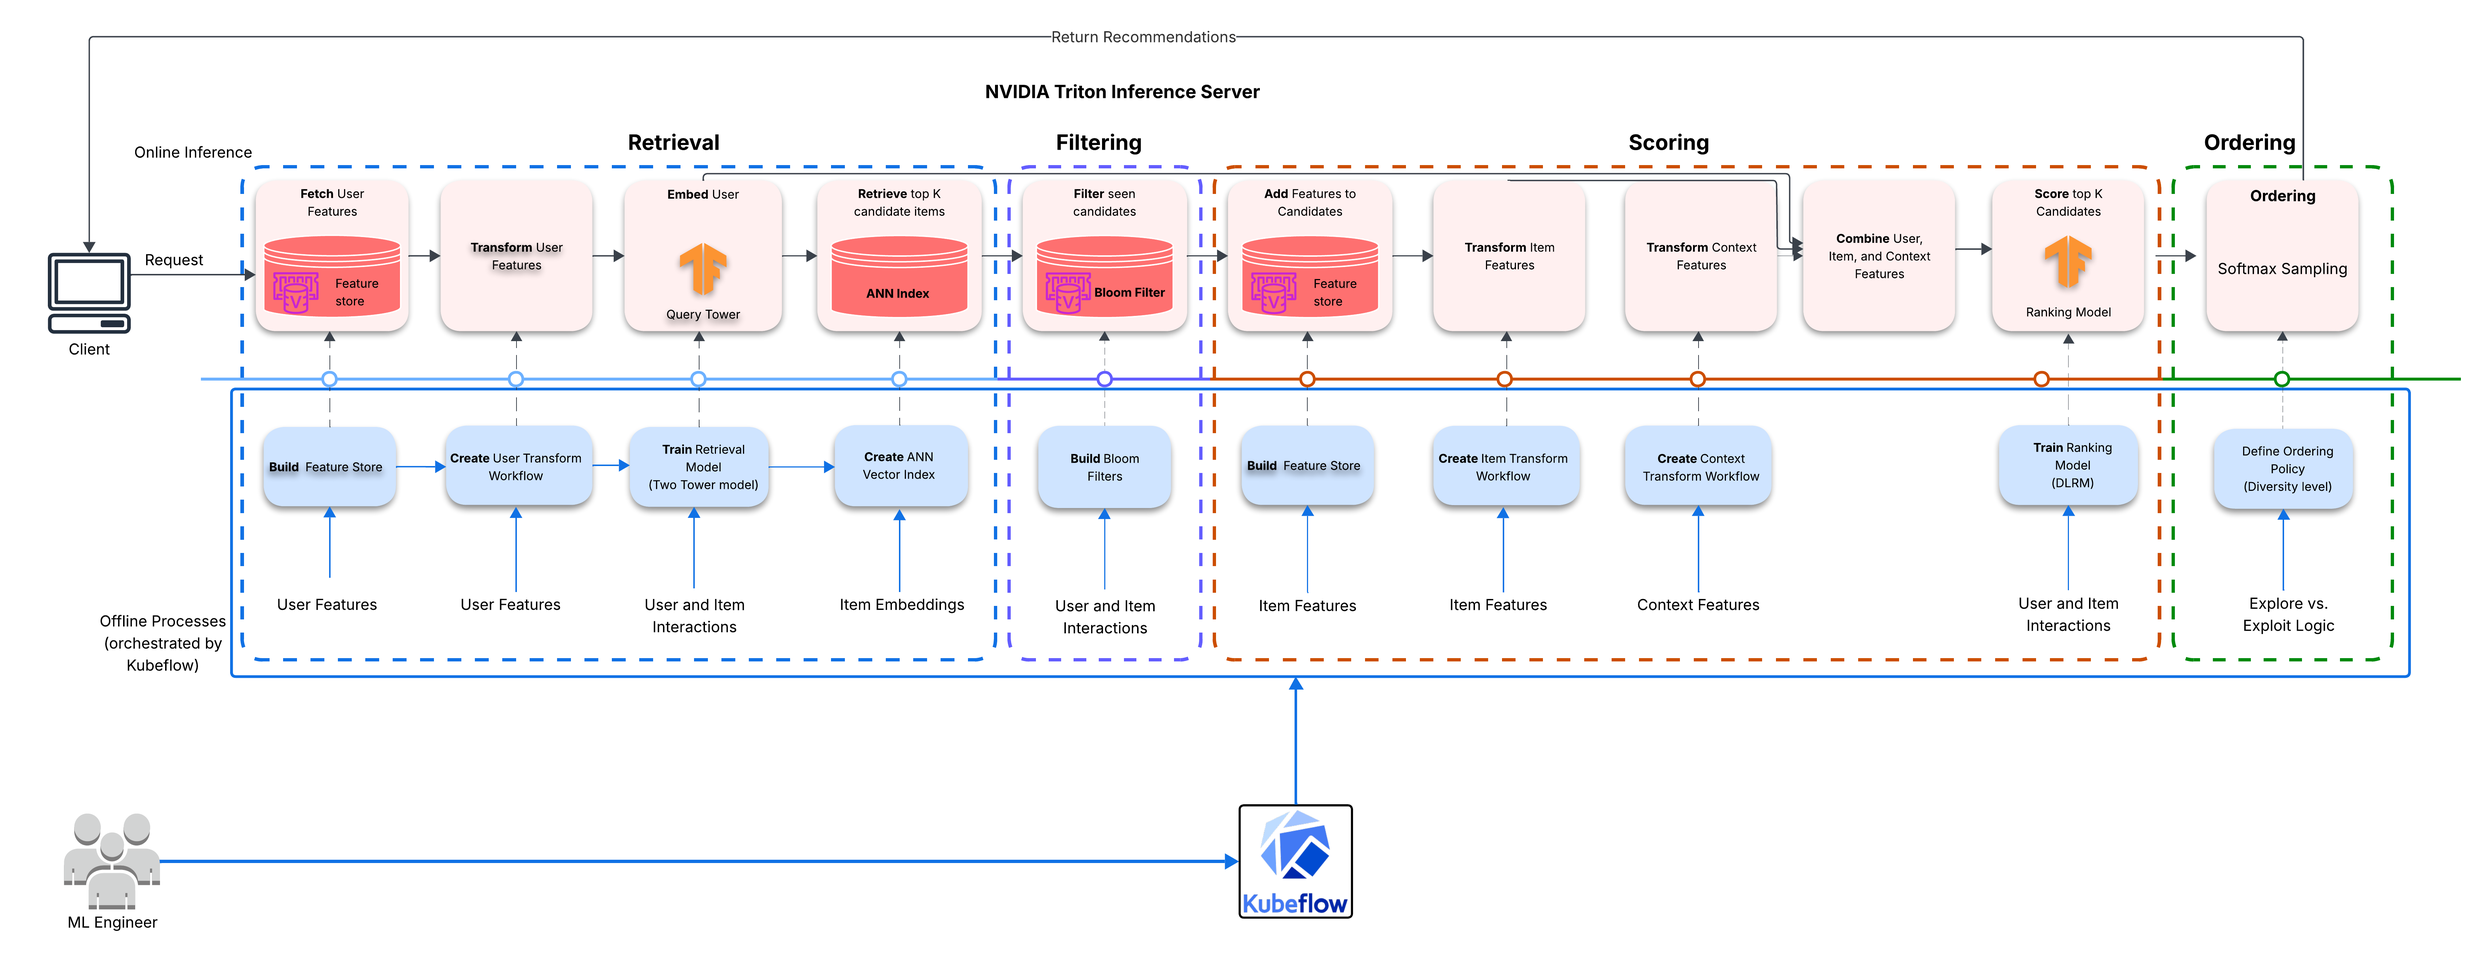
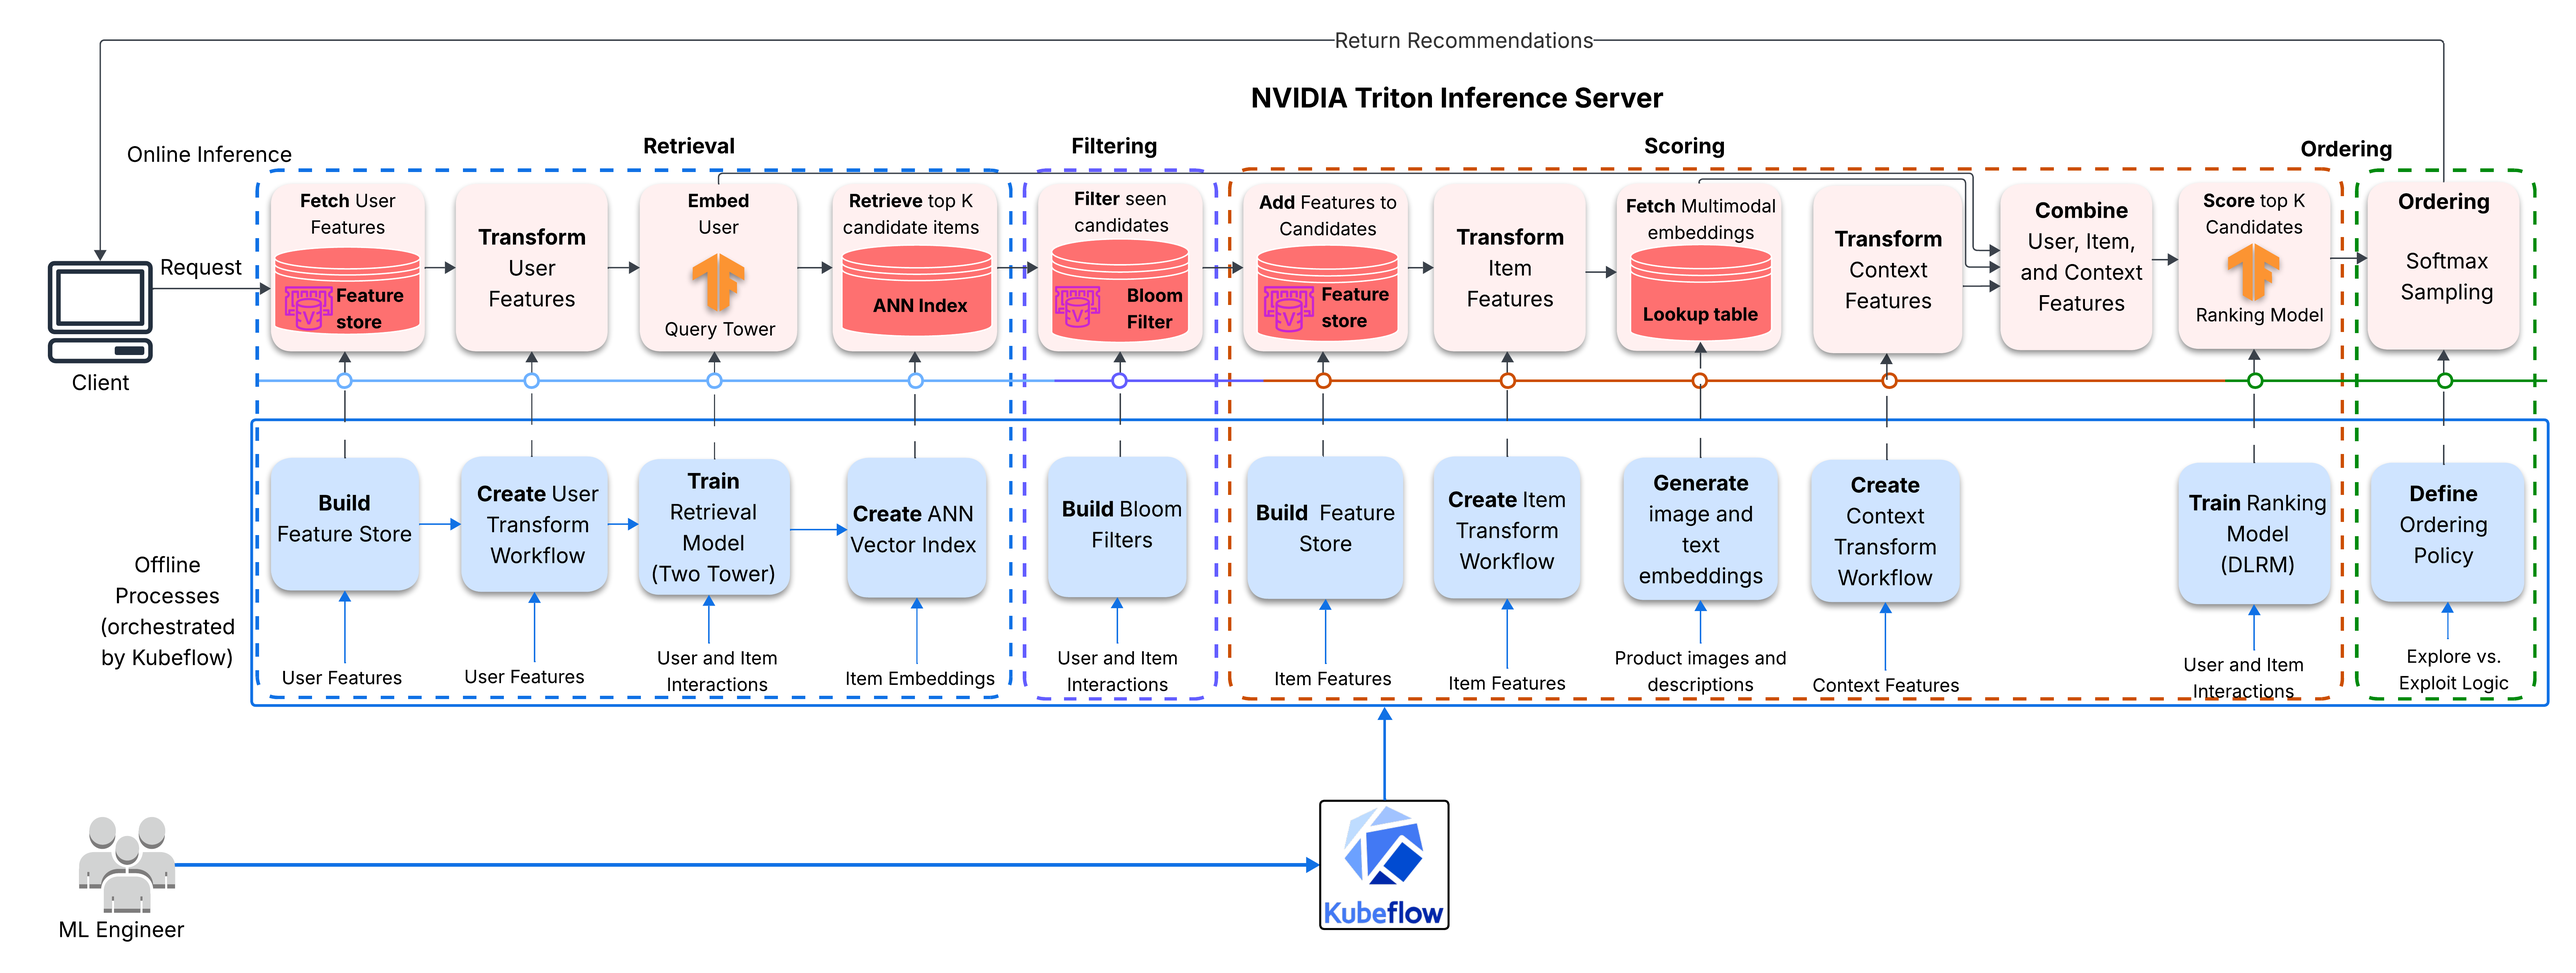
update docs

Changed region(s): [[0.0, 0.0934, 0.9956, 0.7472], [0.0311, 0.0311, 0.9334, 0.0623], [0.0311, 0.8094, 0.56, 0.9651]]

diff --git a/lambda/lambda_function.py b/lambda/lambda_function.py
@@ -33,7 +33,6 @@ REDIS_HOST    = os.environ.get("REDIS_HOST") or os.environ["REDIS_URL"]
 DYNAMO_TABLE  = os.environ["DYNAMO_TABLE"]
 SQS_QUEUE_URL = os.environ["SQS_QUEUE_URL"]
 
-# Reuse connections across warm invocations
 _triton_client = None
 _redis_client  = None
 _dynamo_table  = None
@@ -161,7 +160,6 @@ def lambda_handler(event, context):
     top_ids    = [int(i) for i in ids[:top_k]]
     top_scores = [float(s) for s in scores[:top_k]]
 
-    # Enrich with item metadata from DynamoDB
     dynamo = boto3.resource("dynamodb", region_name=os.environ.get("AWS_DEFAULT_REGION", "us-east-1"))
     dynamo_response = dynamo.batch_get_item(
         RequestItems={

diff --git a/demo_app.py b/demo_app.py
@@ -81,9 +81,10 @@ def mark_seen(user_id: int, item_ids: list):
 
 def flush_user(user_id: int):
     call_lambda({"user_id": user_id, "flush": True})
-    st.session_state.seen_items     = set()
-    st.session_state.snapshot_recs  = []
+    st.session_state.seen_items      = set()
+    st.session_state.snapshot_recs   = []
     st.session_state.pending_refresh = False
+    st.session_state.show_comparison = False
 
 
 def make_timestamp(hour) -> int | None:

diff --git a/readme.md b/readme.md
@@ -1,18 +1,86 @@
-### Multistage Recommender System Deployed on Amazon EKS
-![Model serving architecture](static/Model_serving.png)  
-This Multistage recommender system features:
-* Cold-start handling with feature masking and context-aware recommendations.
-* Multimodal embeddings – image and text
-* Periodic fine-tuning
-* Bloom filter for excluding already-seen items
-* In-memory caching to improve items feature lookup latency
-* Triton Server Autoscaling with Kubernetes HPA and Karpenter
+# Multistage Recommender System on Amazon EKS
 
-### The MLOps architecture
-![The MLOps Architecture](static/MLOps_arch_updated.png)
+A production-grade multistage recommender system deployed on Kubernetes, combining two-tower retrieval, DLRM ranking, multimodal item embeddings, and a real-time behavioral personalization loop.  
 
-### Deployment
-For deployment visit [Docs/documentation.md](Docs/documentation.md)
+**Model serving pipeline**
+![Model serving architecture](static/Model_serving.png)
 
-### Medium article:  
-You can read more about the project on Medium: [Deploying a Four-stage Recommender System on Kubernetes featuring Multimodal Embeddings, Cold Start handling, Bloom Filters, and Feature Caching.](https://mustaphaunubi.medium.com/building-a-production-multistage-recommender-system-on-kubernetes-featuring-multimodal-embeddings-5bcd6d7bbf56?postPublishedType=repub)
+---
+
+## Medium article
+
+[Deploying a Four-stage Recommender System on Kubernetes featuring Multimodal Embeddings, Cold Start handling, Bloom Filters, and Feature Caching](https://mustaphaunubi.medium.com/building-a-production-multistage-recommender-system-on-kubernetes-featuring-multimodal-embeddings-5bcd6d7bbf56?postPublishedType=repub)
+
+---
+## Video Demo
+Click to watch the Demo
+[![Video Demo](static/github_thumbnail.png)](https://youtu.be/nNC8G7wBpBA)
+## How it works
+
+A user request triggers a 14-stage ensemble served by NVIDIA Triton Inference Server on EKS:
+
+![Illustration of Client Request processing](static/TritonProcessingRequests.png)
+
+1. **Feast user lookup** — fetches user features (age, gender, `top_category`) from a Redis online store
+2. **NVT transforms** — applies the same NVTabular preprocessing workflow used during training to user, item, and context features
+3. **Two-Tower retrieval** — encodes the user query and searches a FAISS index of item embeddings to retrieve the top-N candidates
+4. **Bloom filter** — removes items the user has already seen using a per-user Redis Bloom filter
+5. **Feast item lookup** — resolves item features (category, price, gender) from a numpy in-memory cache loaded at startup (~0.1ms vs ~157ms for a live Feast round trip)
+6. **Multimodal embedding lookup** — attaches CLIP image and sentence-transformer text embeddings (PCA-reduced to 64-dim each) to each candidate
+7. **DLRM ranking** — scores and re-orders the filtered candidates; results are returned to the caller enriched with DynamoDB item metadata
+
+---
+
+## Real-time behavioral personalization
+
+`top_category` — the user's dominant item category over the past 24 hours — is updated in near real-time without retraining:
+
+
+- When a user interacts with an item, the serving Lambda adds it to a Redis sorted set (`user:{id}:recent_items`) and enqueues an SQS message
+- The `recsys-feature-computation` Lambda triggers on that message, recomputes `top_category` from the sorted set, and writes it to both the **Feast online store** (Redis) for immediate serving and the **S3 offline store** (Parquet) for the next incremental training run
+- The incremental training pipeline reads the S3 offline store to override stale Feast historical features, eliminating training/serving skew for `top_category`
+
+---
+
+## Key features
+
+- **Cold-start handling** — 5% of training rows are masked to OOV to teach the model to handle unknown users and missing context
+- **Multimodal embeddings** — CLIP (image) and sentence-transformers (text), both PCA-reduced to 64 dimensions
+- **Bloom filter deduplication** — per-user seen-item filter in Redis with a 7-day TTL
+- **In-memory item feature cache** — numpy arrays indexed by raw item ID, loaded from Feast at Triton startup
+- **Incremental fine-tuning** — a Kubeflow Pipeline fetches new interactions, runs NVTabular preprocessing with experience replay, and fine-tunes the query tower and DLRM
+- **Triton autoscaling** — Kubernetes HPA on GPU utilisation + Karpenter for node provisioning
+
+---
+
+## Tech stack
+
+| Layer | Technology |
+|---|---|
+| Model serving | NVIDIA Triton Inference Server |
+| Orchestration | Amazon EKS, Karpenter, Kubernetes HPA |
+| Feature store | Feast (Redis online store, S3 offline store) |
+| Behavioral cache | Amazon ElastiCache (Redis/Valkey) |
+| Item metadata | Amazon DynamoDB |
+| Serving Lambda | AWS Lambda + Function URL |
+| Real-time features | AWS SQS → Lambda → Feast + S3 |
+| Training pipeline | Kubeflow Pipelines on EKS |
+| Preprocessing and Training | NVIDIA NVTabular, Merlin-Tensorflow |
+
+---
+
+## Architecture
+
+**MLOps architecture**
+![MLOps architecture](static/MLOps_arch_updated.png)
+
+---
+
+## Deployment and demo
+
+
+Full deployment instructions: [Docs/documentation.md](Docs/documentation.md)
+
+The demo includes a Streamlit app with a personalized recommendations carousel and a browsable item catalog. Clicking items feeds the real-time behavioral loop and shifts recommendations within seconds.
+
+---
